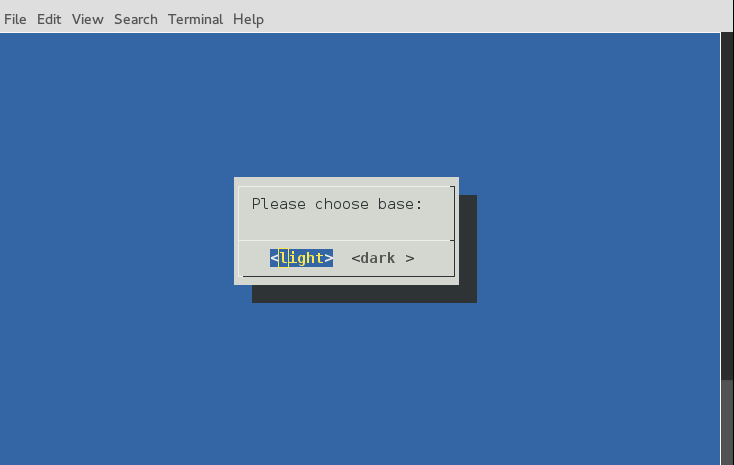
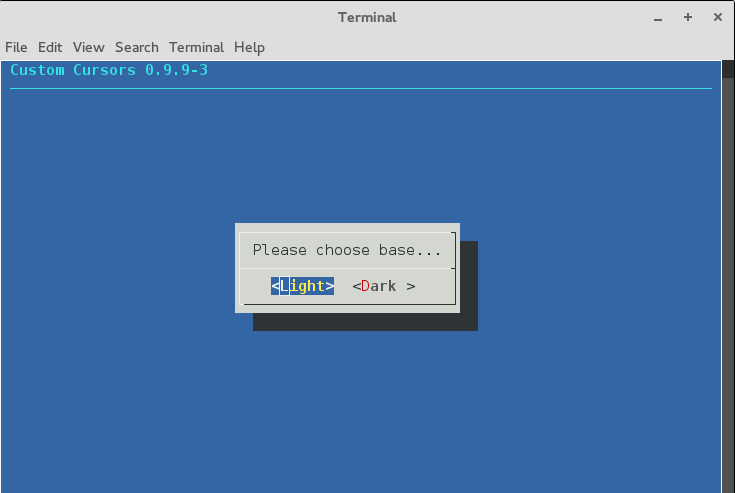
update previews

Changed region(s): [[0.0, 0.0, 1.0, 0.843], [0.2997, 0.3613, 0.6594, 0.6925]]

diff --git a/README.md b/README.md
@@ -5,9 +5,9 @@ current version: 0.9.9-3
 testing repo for custom_cursor project. use caution if using anything from this repo.
 getting close to a 1.0 release.
 
-![](screens/screen-01.png "dark/light")
-![](screens/screen-02.png "colors")
-![](screens/screen-03.png "custom-color")
+![](screens/screen-01.png "dark/light") ![](screens/screen-02.png "colors")
+![](screens/screen-03.png "custom-color") ![](screens/screen-04.png "colors")
+![](screens/screen-05.png "colors")
 *screenshots are from a previous base, looks have changed slightly*
 
 if testing the script, use arrow keys or mouse to select light/dark
